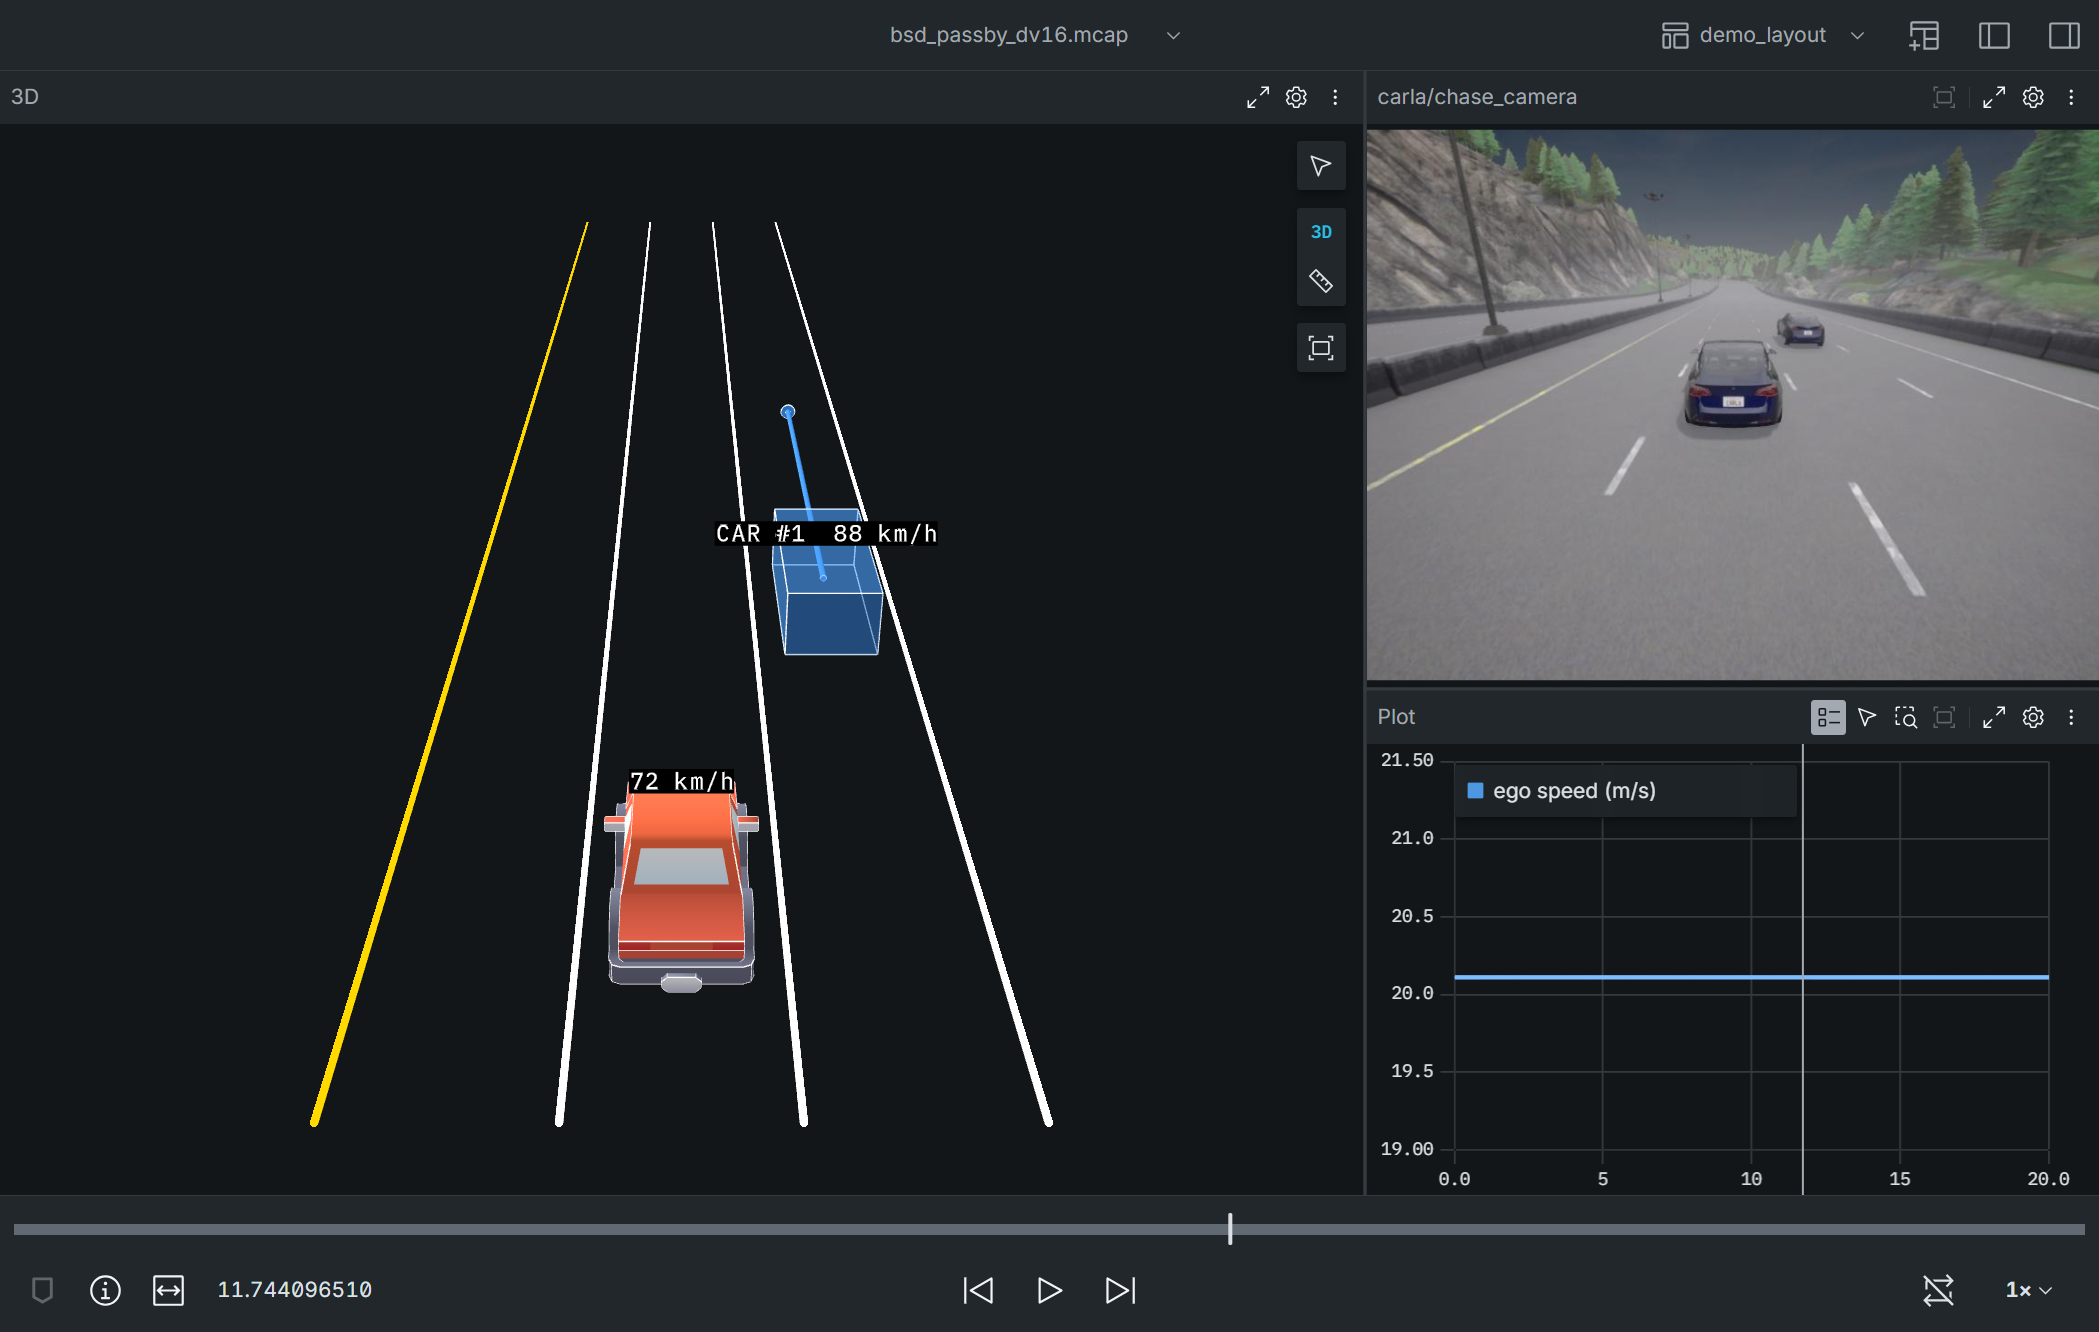
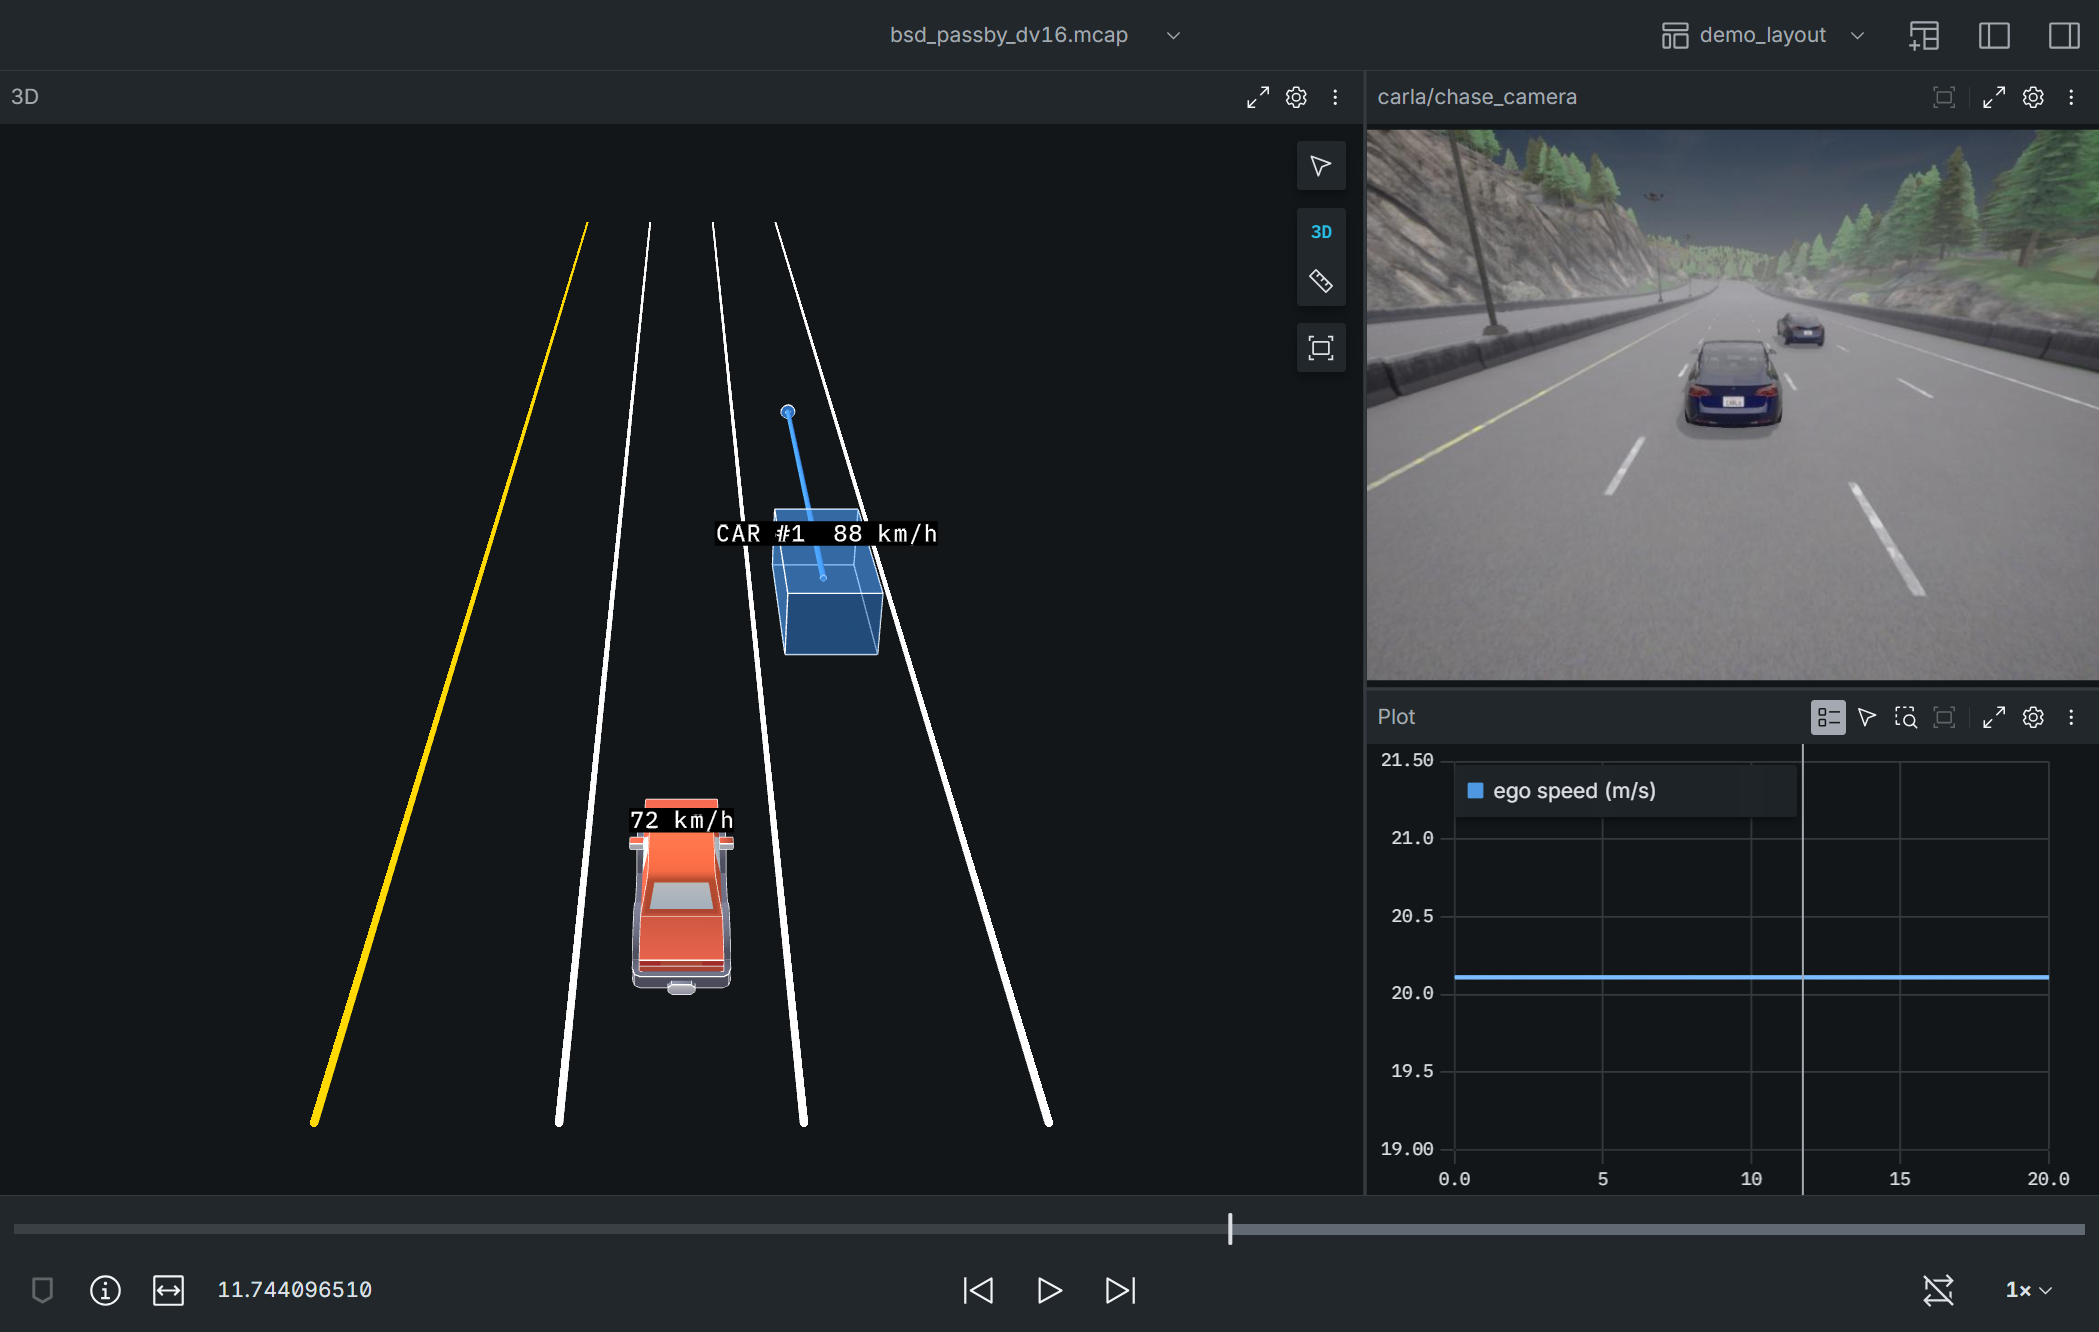
fix(viewer): ego car scaled per axis to real 4.5 x 1.8 x 1.5 m

Changed region(s): [[0.0, 0.8926, 0.5884, 0.9542], [0.2787, 0.5541, 0.3716, 0.7695]]

diff --git a/test/objects.test.ts b/test/objects.test.ts
@@ -46,19 +46,35 @@ describe("convertObjects", () => {
     expect(e.texts).toHaveLength(0);
   });
 
-  it("ego model: glb media type, own colours, centre x, on the ground, scaled to EGO_LENGTH_M", () => {
+  it("ego model: glb media type, own colours, centred on EGO_CENTRE_X_M, on the ground", () => {
     const m = entityOf(list([])).models[0]!;
     expect(m.media_type).toBe("model/gltf-binary");
     expect(m.override_color).toBe(false);
     expect(m.url).toBe("");
-    expect(m.pose.position.x).toBe(S.EGO_CENTRE_X_M);
+    // The model's middle is 0.025 m behind its origin (before scale), so the origin moves forward by that much.
+    expect(m.pose.position.x).toBeCloseTo(1.35 + 0.025 * (4.5 / 2.55), 9);
     expect(m.pose.position.y).toBe(0);
     expect(m.pose.position.z).toBe(0);
-    expect(m.scale.x).toBe(S.EGO_LENGTH_M / S.EGO_MODEL_NATIVE_LENGTH_M);
-    expect(m.scale.x).toBeCloseTo(1.7647059, 6); // 4.5 / 2.55
-    expect(m.scale).toEqual({ x: m.scale.x, y: m.scale.x, z: m.scale.x }); // uniform
     expect(m.pose.orientation.z).toBeCloseTo(0.7071, 4); // quarter turn about z: model forward -> +x
     expect(m.pose.orientation.w).toBeCloseTo(0.7071, 4);
+  });
+
+  it("ego model scale per axis: x = width, y = length, z = height (Foxglove applies it after Y-up -> Z-up)", () => {
+    const s = entityOf(list([])).models[0]!.scale;
+    expect(s.x).toBe(S.EGO_WIDTH_M / S.EGO_MODEL_NATIVE_WIDTH_M);
+    expect(s.y).toBe(S.EGO_LENGTH_M / S.EGO_MODEL_NATIVE_LENGTH_M);
+    expect(s.z).toBe(S.EGO_HEIGHT_TARGET_M / S.EGO_MODEL_NATIVE_HEIGHT_M);
+    expect(s.x).toBeCloseTo(1.2, 9); // 1.8 / 1.5
+    expect(s.y).toBeCloseTo(1.7647059, 6); // 4.5 / 2.55
+    expect(s.z).toBeCloseTo(1.1538462, 6); // 1.5 / 1.3
+    // The drawn car: 1.5 m x 2.55 m x 1.3 m native -> 1.8 m wide, 4.5 m long, 1.5 m high.
+    expect(1.5 * s.x).toBeCloseTo(1.8, 9);
+    expect(2.55 * s.y).toBeCloseTo(4.5, 9);
+    expect(1.3 * s.z).toBeCloseTo(1.5, 9);
+  });
+
+  it("ego model bytes are a glb", () => {
+    const m = entityOf(list([])).models[0]!;
     expect(m.data.length).toBeGreaterThan(100_000);
     expect(String.fromCharCode(...m.data.slice(0, 4))).toBe("glTF");
   });

diff --git a/src/style.ts b/src/style.ts
@@ -56,10 +56,16 @@ export const EGO_MODEL_NATIVE_WIDTH_M = 1.5;
 export const EGO_MODEL_NATIVE_HEIGHT_M = 1.3;
 /** Lowest point of the model on its up axis (the wheel bottoms); 0 means its origin is on the ground. */
 export const EGO_MODEL_NATIVE_MIN_UP_M = 0;
-/** One uniform scale: the drawn model is EGO_LENGTH_M long. */
-export const EGO_MODEL_SCALE = EGO_LENGTH_M / EGO_MODEL_NATIVE_LENGTH_M;
+/** Middle of the model along its forward axis (glTF Z), from the same measurement: not at the origin. */
+export const EGO_MODEL_NATIVE_CENTRE_FORWARD_M = -0.025;
+/** Roof height the drawn car should have (a passenger car, not the model's own 1.3 m x length scale). */
+export const EGO_HEIGHT_TARGET_M = 1.5;
+// One factor per axis, so the drawn car is EGO_LENGTH_M x EGO_WIDTH_M x EGO_HEIGHT_TARGET_M.
+export const EGO_MODEL_SCALE_LENGTH = EGO_LENGTH_M / EGO_MODEL_NATIVE_LENGTH_M;
+export const EGO_MODEL_SCALE_WIDTH = EGO_WIDTH_M / EGO_MODEL_NATIVE_WIDTH_M;
+export const EGO_MODEL_SCALE_HEIGHT = EGO_HEIGHT_TARGET_M / EGO_MODEL_NATIVE_HEIGHT_M;
 /** Roof height of the drawn model; the ego speed text sits above this. */
-export const EGO_HEIGHT_M = EGO_MODEL_NATIVE_HEIGHT_M * EGO_MODEL_SCALE;
+export const EGO_HEIGHT_M = EGO_MODEL_NATIVE_HEIGHT_M * EGO_MODEL_SCALE_HEIGHT;
 /**
  * Yaw that turns the model's forward (glTF +Z) onto ego +x. The 3D panel's default mesh up axis
  * ("y_up") already stands a glTF upright (+Y -> +z, +Z -> -y), so what is left is a quarter turn about z.

diff --git a/src/convert/objects.ts b/src/convert/objects.ts
@@ -121,9 +121,17 @@ function addObject(entity: SceneEntity, obj: DfObj): void {
 export function convertObjects(msg: DfObjList, receiveTime: Time): SceneUpdate {
   const entity = emptyEntity("objects", receiveTime);
 
+  // Foxglove stands a glTF upright (Y-up -> Z-up) INSIDE the model and applies `scale` to the result, then the
+  // pose: so scale.x = width (glTF X), scale.y = length (glTF Z, now -y), scale.z = height (glTF Y, now z).
+  // Not the glTF's own axes: read from the 3D panel's model code and confirmed in Foxglove (top view, 4.5 x 1.8 m).
   entity.models.push({
-    pose: pose(S.EGO_CENTRE_X_M, 0, 0 - S.EGO_MODEL_NATIVE_MIN_UP_M * S.EGO_MODEL_SCALE, S.EGO_MODEL_YAW_RAD),
-    scale: { x: S.EGO_MODEL_SCALE, y: S.EGO_MODEL_SCALE, z: S.EGO_MODEL_SCALE },
+    pose: pose(
+      S.EGO_CENTRE_X_M - S.EGO_MODEL_NATIVE_CENTRE_FORWARD_M * S.EGO_MODEL_SCALE_LENGTH,
+      0,
+      0 - S.EGO_MODEL_NATIVE_MIN_UP_M * S.EGO_MODEL_SCALE_HEIGHT,
+      S.EGO_MODEL_YAW_RAD,
+    ),
+    scale: { x: S.EGO_MODEL_SCALE_WIDTH, y: S.EGO_MODEL_SCALE_LENGTH, z: S.EGO_MODEL_SCALE_HEIGHT },
     color: S.EGO_MODEL_UNUSED_COLOR,
     override_color: false,
     url: "",

diff --git a/test/ego.test.ts b/test/ego.test.ts
@@ -20,7 +20,7 @@ describe("convertEgo", () => {
     expect(e.timestamp).toEqual({ sec: 1, nsec: 2 });
     expect(e.texts).toHaveLength(1);
     expect(e.texts[0]!.text).toBe("36 km/h");
-    expect(e.texts[0]!.pose.position).toEqual({ x: 1.35, y: 0, z: 1.3 * (4.5 / 2.55) + 0.4 }); // above the roof of the scaled car model
+    expect(e.texts[0]!.pose.position).toEqual({ x: 1.35, y: 0, z: 1.5 + 0.4 }); // 0.4 m above the 1.5 m roof of the scaled car model
   });
 
   it("0 m/s -> '0 km/h'", () => {

diff --git a/docs/plan.md b/docs/plan.md
@@ -83,10 +83,12 @@ disappear vanish. `lifetime` is 0 and `frame_locked` is true.
 | Velocity arrow | `arrows[]` from the box centre, direction `atan2(vabs_y, vabs_x)`, shaft length `speed × ARROW_S_PER_MPS (0.5)`, capped at `ARROW_MAX_M = 15`; omitted below `ARROW_MIN_MPS = 0.5` | `kinematic.vabs_x/vabs_y` (absolute velocity, already in ego axes) |
 | Label | `texts[]`, billboard, above the box: `"<CLASS> #<local_id>  <km/h>"` | `classification`, `local_id`, `vabs` |
 
-Plus one **ego car** cube in the same entity: `EGO_LENGTH_M = 4.5`,
-`EGO_WIDTH_M = 1.8`, centre `(EGO_CENTRE_X_M = 1.35, 0, OBJECT_HEIGHT_M/2)`,
-in a distinct colour. These are display constants; take them from
-`ego_params.yaml` later (§7).
+Plus one **ego car** in the same entity: a `ModelPrimitive` (3D car model
+`assets/ego_car.glb`, CC0, see `assets/ASSETS.md`, bundled in the extension, decoded once)
+centred on `EGO_CENTRE_X_M = 1.35`, scaled per axis to `EGO_LENGTH_M = 4.5` x
+`EGO_WIDTH_M = 1.8` x `EGO_HEIGHT_TARGET_M = 1.5`. Foxglove applies the scale after its Y-up to
+Z-up conversion, so `scale.x` = width, `.y` = length, `.z` = height. These are display
+constants; take them from `ego_params.yaml` later (§7).
 
 ### 4.2 `RoadModel` → `foxglove.SceneUpdate`
 

diff --git a/README.md b/README.md
@@ -20,12 +20,12 @@ speed plot, both drawn by Foxglove itself.
 - [ ] **Timestamp format in seconds.** Same page, *Visualization timestamp
   format -> Seconds*, so the time bar shows `11.7` rather than a 1970 date.
 - [ ] **`demo_layout` imported and selected** (see below).
-- [ ] **Extension version 0.2.0** shown under *profile menu -> Extensions*.
+- [ ] **Extension version 0.2.1** shown under *profile menu -> Extensions*.
 
 ## Set up the demo laptop (once)
 
 1. **Install Foxglove desktop** from <https://foxglove.dev/download> and sign in.
-2. **Install the extension.** Drag `adas.foxglove-viewer-0.2.0.foxe` onto the
+2. **Install the extension.** Drag `adas.foxglove-viewer-0.2.1.foxe` onto the
    Foxglove window. Check it under *profile menu (top right) -> Extensions*:
    "ADAS Foxglove Viewer" should be listed.
    - **Updating to a new `.foxe`?** First remove the old one: *Extensions ->

diff --git a/CHANGELOG.md b/CHANGELOG.md
@@ -2,6 +2,11 @@
 
 `npm run package` refuses to build a `.foxe` without this file.
 
+## 0.2.1
+
+- The ego car model is scaled per axis to 4.5 m long, 1.8 m wide and 1.5 m high (0.2.0 scaled it evenly to a too wide, too tall 2.65 x 2.3 m), and centred on the ego centre.
+- The ego speed text sits 0.4 m above the new 1.5 m roof.
+
 ## 0.2.0
 
 - The ego vehicle is drawn as a 3D car model (CC0, `assets/ASSETS.md`) instead of a box, bundled inside the extension.
